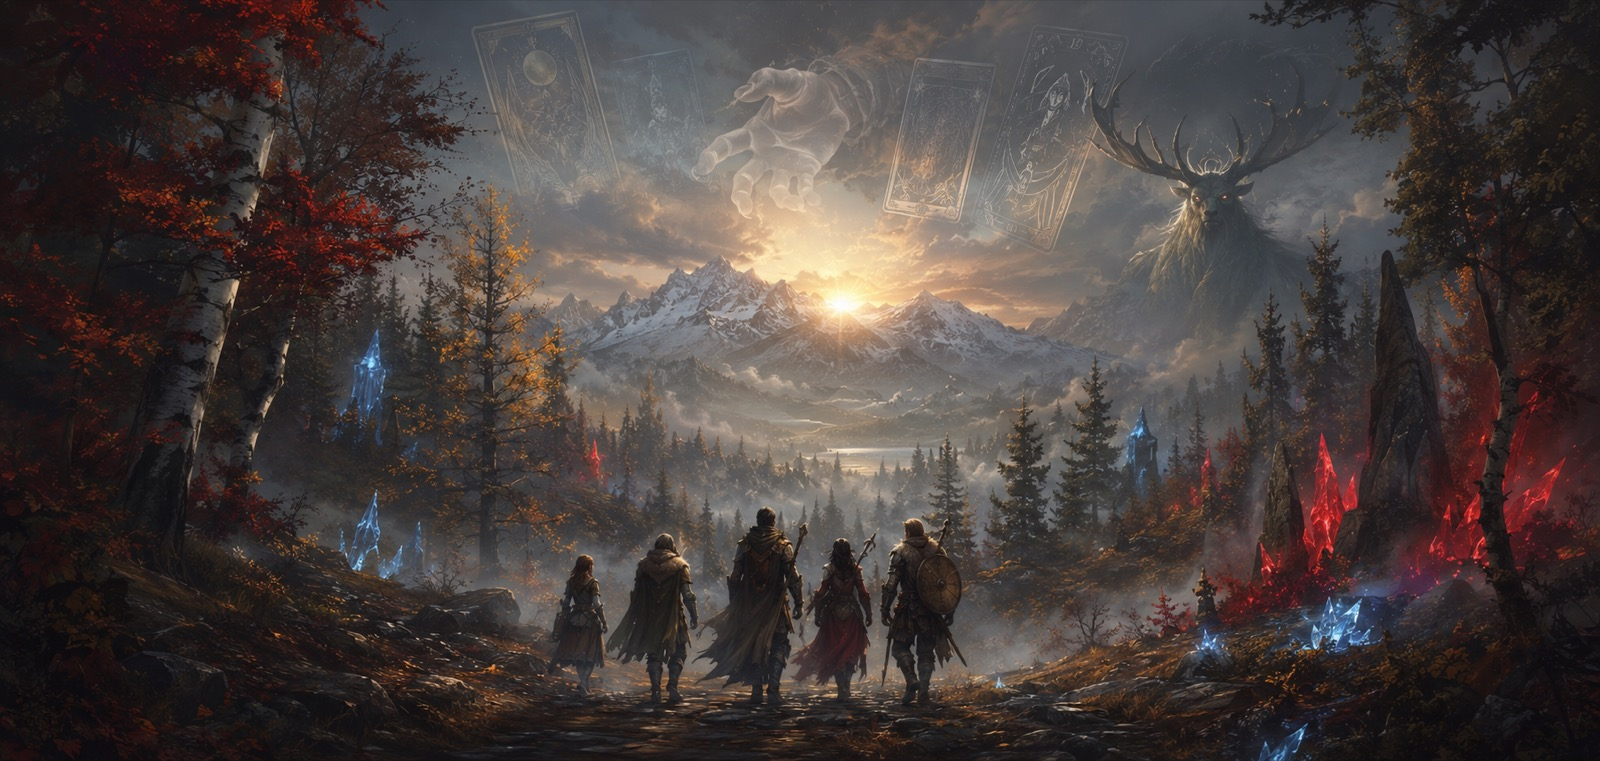
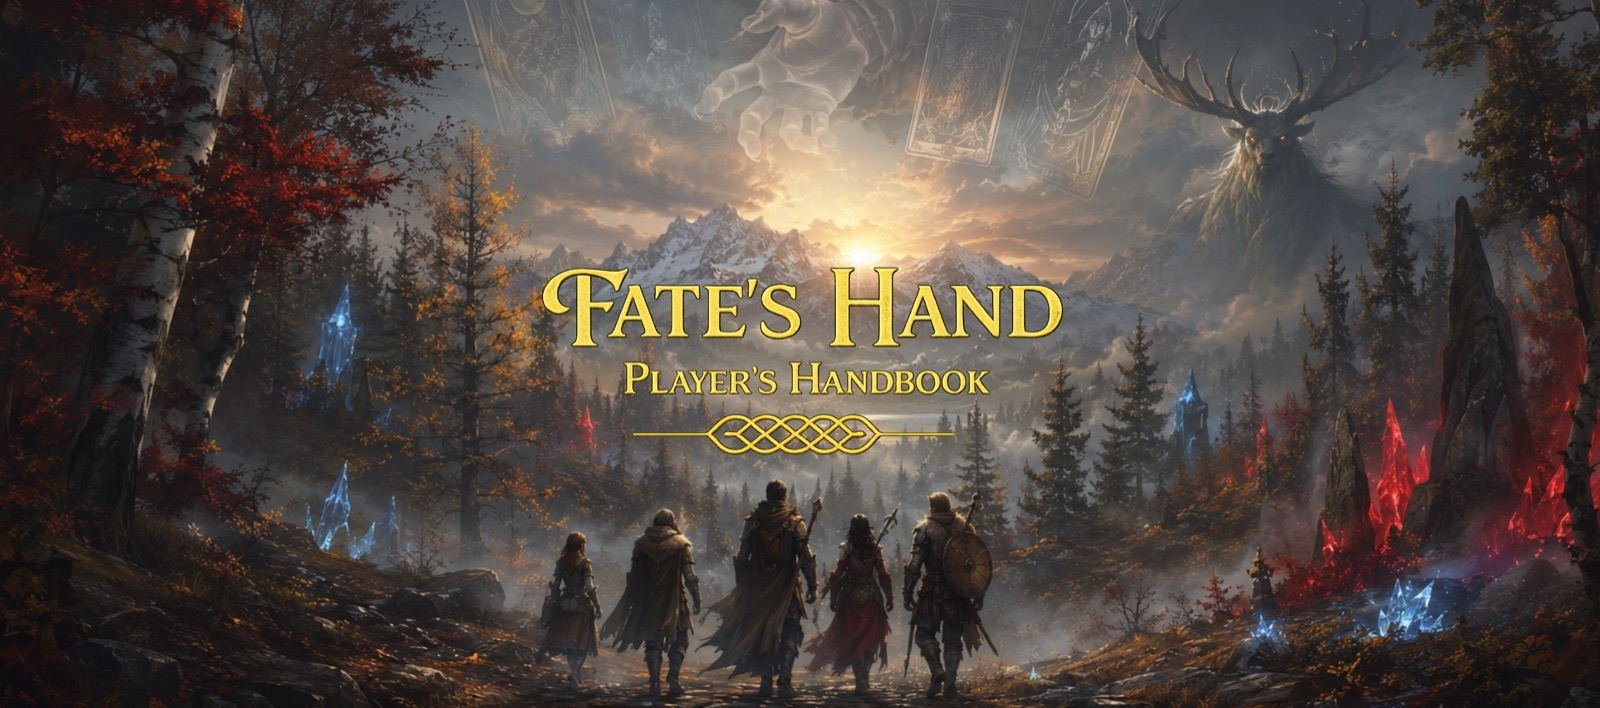
Cover: final artwork with the title baked in (Player's Handbook)
HTML h1 kept for SEO/accessibility but visually hidden; overlay scrim removed.

diff --git a/docs/stylesheets/extra.css b/docs/stylesheets/extra.css
@@ -384,21 +384,14 @@ body.fh-home-page .md-header { display: none; }
 .md-typeset .fh-cover { position: relative; margin: 0 0 1.2rem; }
 .md-typeset .fh-cover .fh-banner { margin: 0; }
 .md-typeset .fh-cover::after {
-  content: ""; position: absolute; left: 1px; right: 1px; top: 1px;
-  height: 42%; border-radius: 8px 8px 0 0; pointer-events: none;
-  background: linear-gradient(to bottom, rgba(10,7,4,.78) 0%, rgba(10,7,4,.30) 55%, transparent 100%);
+  content: none;
 }
 .md-typeset .fh-cover h1.fh-cover-title {
-  position: absolute; left: 0; right: 0; top: .9rem; z-index: 2;
-  margin: 0; padding: 0 1rem;
-  text-align: center; font-size: 2.15rem;
-  font-family: "Cinzel Decorative", "Cinzel", serif; font-weight: 700;
-  color: #f0dfae;
-  text-shadow: 0 2px 6px rgba(0,0,0,.95), 0 0 28px rgba(0,0,0,.7);
+  position: absolute; width: 1px; height: 1px; margin: -1px;
+  overflow: hidden; clip: rect(0 0 0 0); white-space: nowrap;
 }
 @media screen and (max-width: 44.9em) {
-  .md-typeset .fh-cover h1.fh-cover-title { font-size: 1.05rem; top: .45rem; }
-  .md-typeset .fh-cover::after { height: 52%; }
+
 }
 
 /* ---- landing cards: title overlaid on the card banner ---- */
